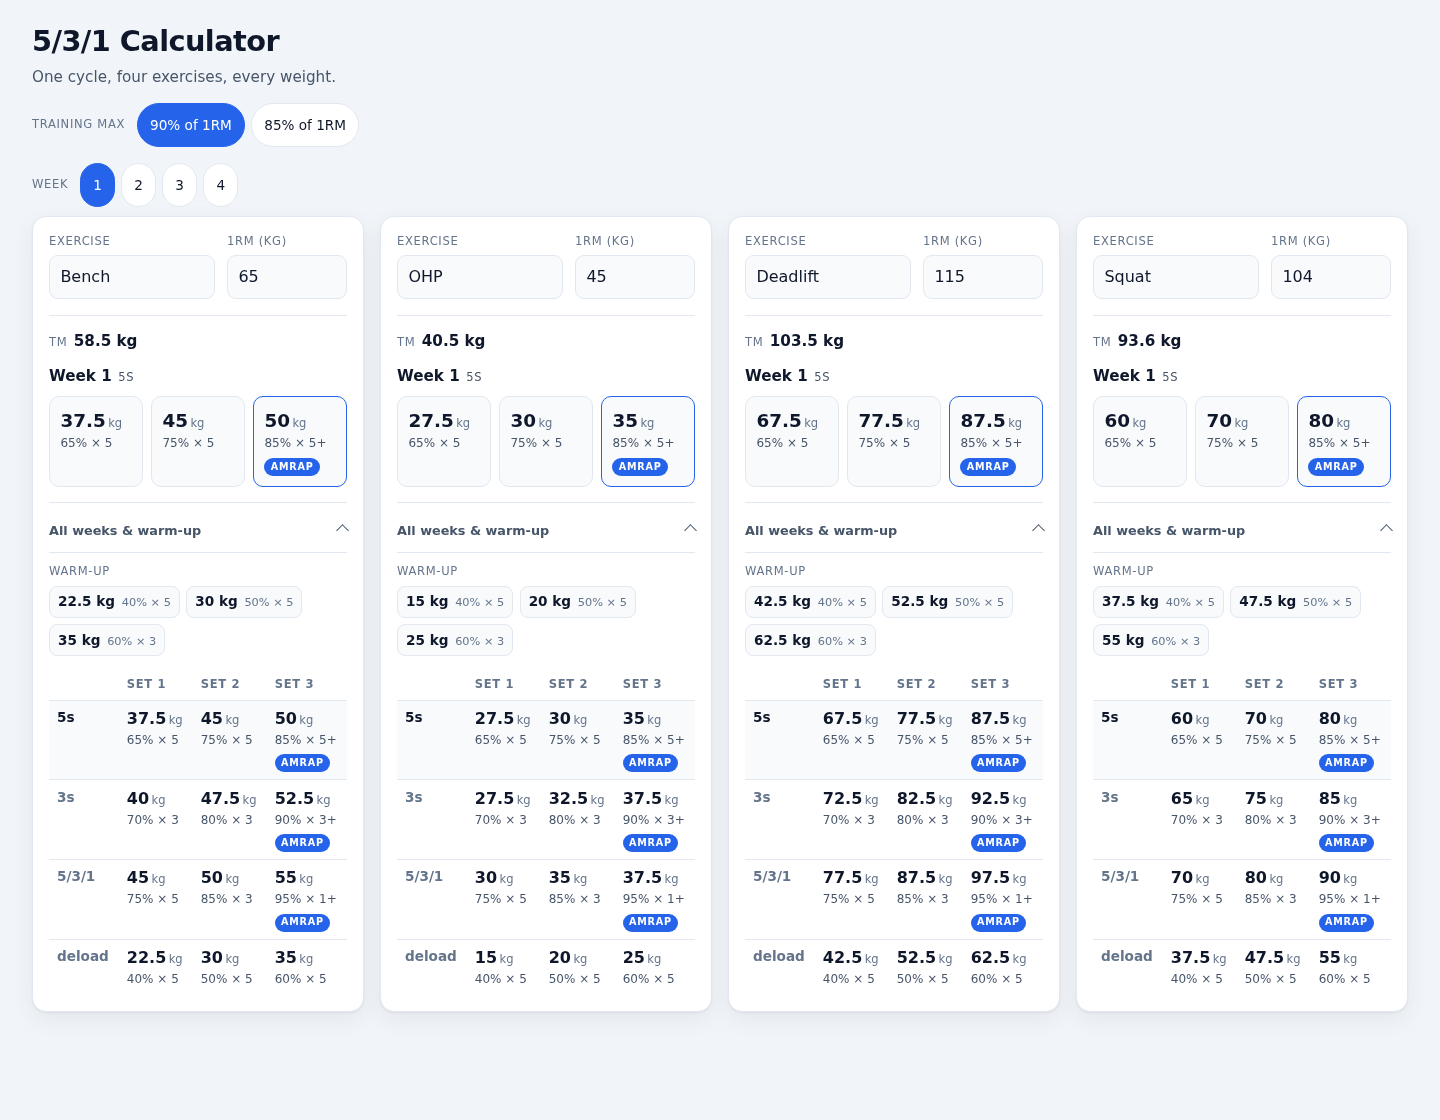
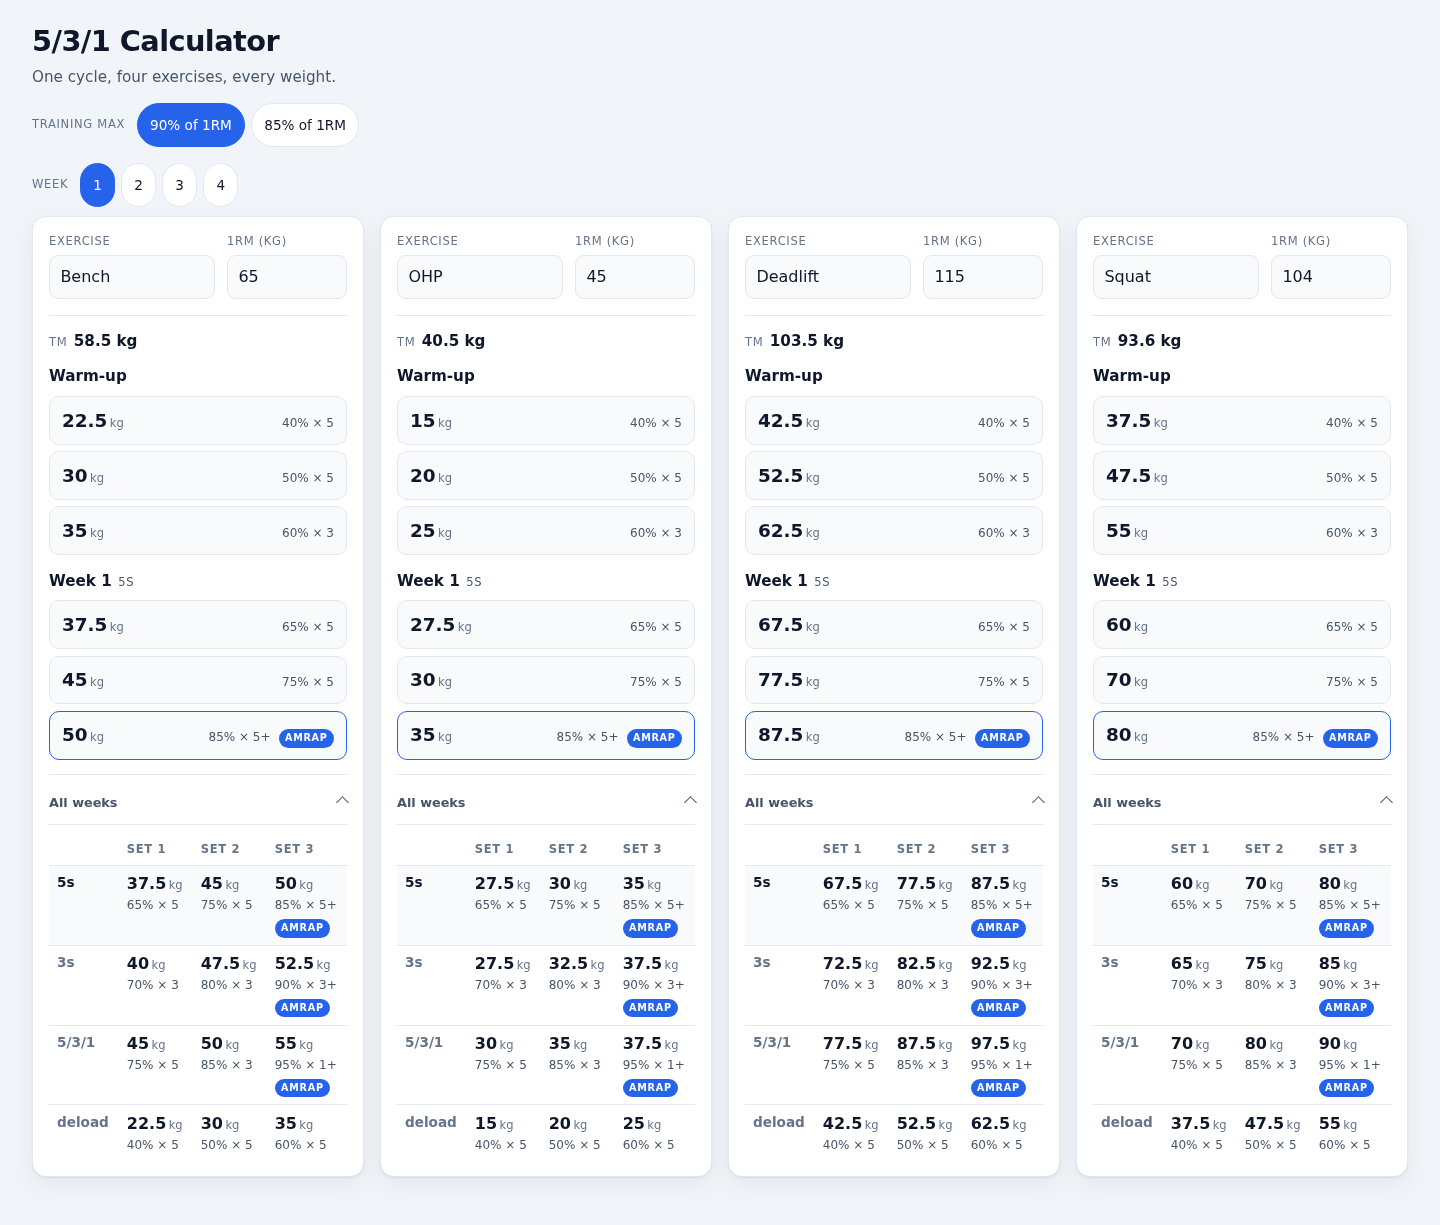
Refine warm-up and current-week set layouts
- Show warm-up sets in a dedicated list
- Simplify the all-weeks section
- Update responsive set styling and review screenshots

diff --git a/src/app.js b/src/app.js
@@ -72,8 +72,22 @@ function setCell(set) {
     <span class="meta">${percentAndReps(set)}</span>${amrapTag(set)}`;
 }
 
-function warmupChip(set) {
-  return `<span class="chip"><b>${String(set.weight)} kg</b> <small>${percentAndReps(set)}</small></span>`;
+function warmupSet(set) {
+  return `
+    <li class="now-set">
+      <span class="weight">${String(set.weight)}<span class="unit">kg</span></span>
+      <span class="meta">${percentAndReps(set)}</span>
+    </li>`;
+}
+
+function warmupBlock(cycle) {
+  return `
+    <div class="warmup">
+      <div class="now-head">
+        <span class="now-week">Warm-up</span>
+      </div>
+      <ul class="now-sets">${cycle.warmup.map(warmupSet).join("")}</ul>
+    </div>`;
 }
 
 function nowBlock(cycle, weekIndex) {
@@ -100,7 +114,6 @@ function nowBlock(cycle, weekIndex) {
 }
 
 function allWeeks(cycle, weekIndex) {
-  const warmup = cycle.warmup.map(warmupChip).join("");
   const rows = cycle.weeks
     .map(
       (week, index) => `
@@ -113,11 +126,7 @@ function allWeeks(cycle, weekIndex) {
 
   return `
     <details class="all-weeks">
-      <summary>All weeks &amp; warm-up</summary>
-      <div class="warmup">
-        <span class="warmup-title">Warm-up</span>
-        <div class="chips">${warmup}</div>
-      </div>
+      <summary>All weeks</summary>
       <table class="grid">
         <thead>
           <tr><th></th><th>Set 1</th><th>Set 2</th><th>Set 3</th></tr>
@@ -133,6 +142,7 @@ function renderResults(cycle, weekIndex) {
       <span class="tm-line-label">TM</span>
       <b>${String(cycle.trainingMax)} kg</b>
     </div>
+    ${warmupBlock(cycle)}
     ${nowBlock(cycle, weekIndex)}
     ${allWeeks(cycle, weekIndex)}`;
 }

diff --git a/src/style.css b/src/style.css
@@ -278,16 +278,28 @@ body {
   margin: 0;
   padding: 0;
   display: grid;
-  grid-template-columns: repeat(3, minmax(0, 1fr));
-  gap: 0.5rem;
+  grid-template-columns: minmax(0, 1fr);
+  gap: 0.4rem;
 }
 
 .now-set {
+  display: flex;
+  align-items: baseline;
+  justify-content: space-between;
+  gap: 0.5rem;
   background: var(--surface-2);
   border: 1px solid var(--border);
   border-radius: 10px;
-  padding: 0.6rem 0.65rem;
+  padding: 0.6rem 0.75rem;
   font-variant-numeric: tabular-nums;
+}
+
+.now-set .meta {
+  margin-left: auto;
+}
+
+.now-set .amrap-tag {
+  margin-top: 0;
 }
 
 .now-set.is-amrap {
@@ -296,6 +308,7 @@ body {
 
 .now-set .weight {
   font-size: 1.15rem;
+  margin: 0;
 }
 
 .amrap-tag {
@@ -364,36 +377,7 @@ body {
 }
 
 .warmup {
-  margin: 0.6rem 0 0.85rem;
-}
-
-.warmup-title {
-  display: block;
-  font-size: 0.72rem;
-  text-transform: uppercase;
-  letter-spacing: 0.06em;
-  color: var(--muted);
-  margin-bottom: 0.35rem;
-}
-
-.chips {
-  display: flex;
-  flex-wrap: wrap;
-  gap: 0.4rem;
-}
-
-.chip {
-  background: var(--surface-2);
-  border: 1px solid var(--border);
-  border-radius: 8px;
-  padding: 0.3rem 0.5rem;
-  font-size: 0.85rem;
-  font-variant-numeric: tabular-nums;
-}
-
-.chip small {
-  color: var(--muted);
-  margin-left: 0.15rem;
+  margin-bottom: 0.9rem;
 }
 
 .grid {
